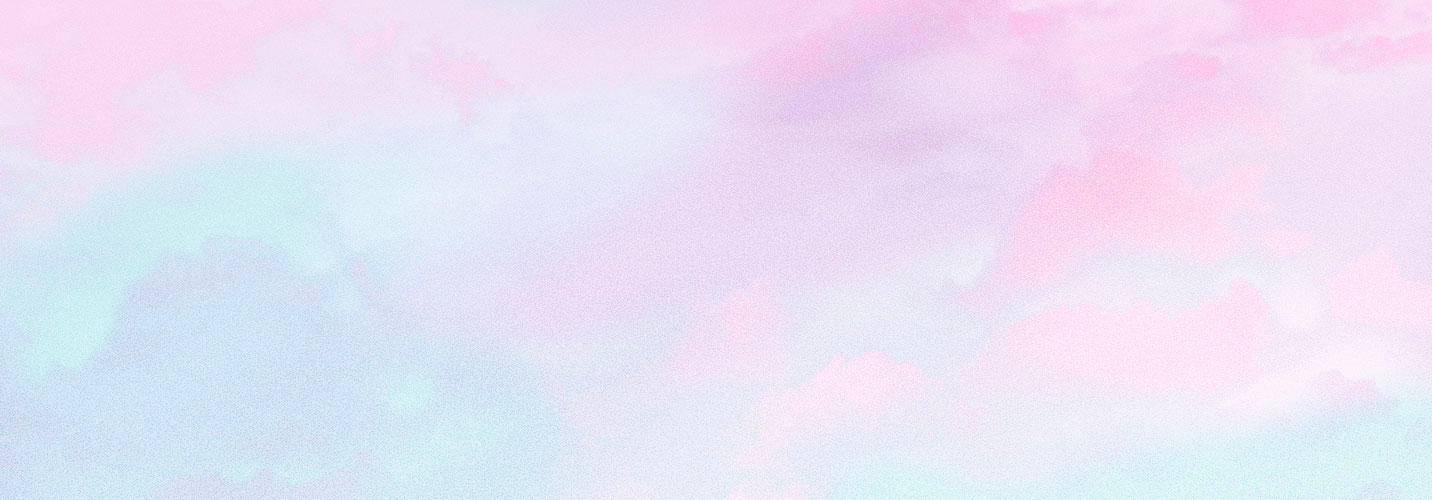
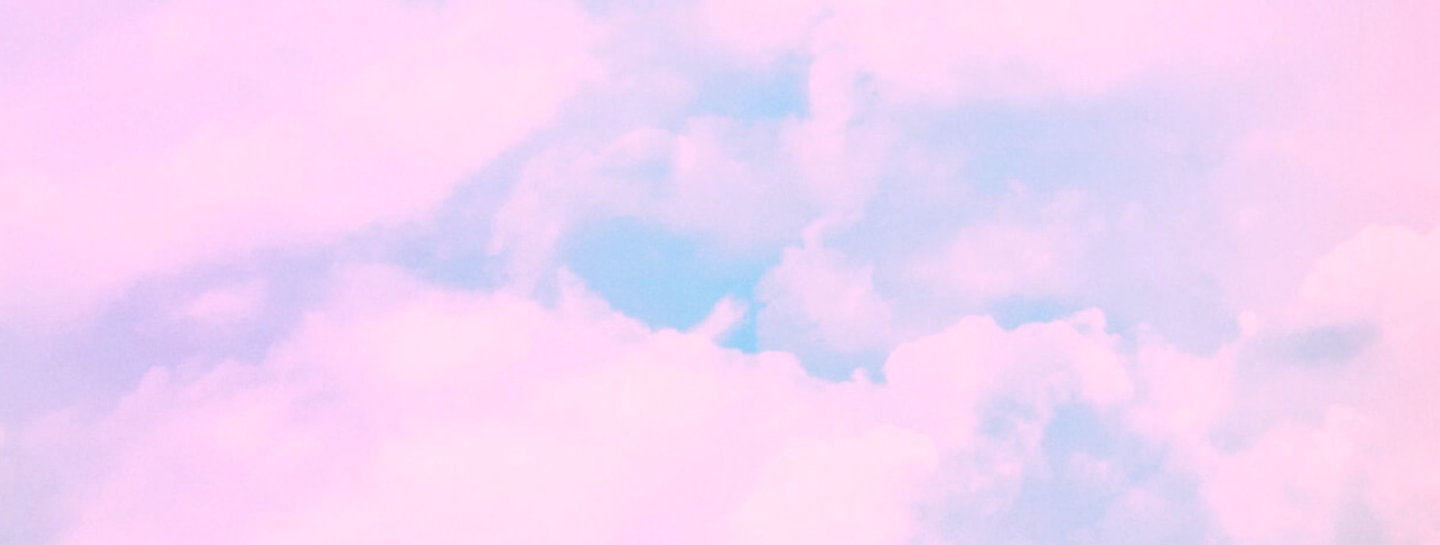
Update layout

diff --git a/src/pages/styles.scss b/src/pages/styles.scss
@@ -14,6 +14,7 @@
 }
 
 body {
+  background: #f4eeff;
   margin: 0;
 }
 
@@ -22,6 +23,7 @@ h2 {
   color: var(--primary-purple);
   font-size: 6.4rem;
   text-align: center;
+  color: var(--primary-accent);
 }
 
 h1 {
@@ -58,10 +60,14 @@ p {
 
 section.invite {
   article {
-    border: 1.2rem solid var(--primary-pink);
+    box-shadow: 0 10px 15px -3px rgba(0, 0, 0, 0.1), 0 4px 6px -2px rgba(0, 0, 0, 0.05);
+
+    background: white;
+    // border: 1.2rem solid var(--primary-purple);
     padding: 4rem;
     max-width: 60rem;
     margin: 8rem auto;
+    margin-bottom: 8rem;
 
     h3 {
       margin-bottom: 2rem;
@@ -86,7 +92,7 @@ section.invite {
 }
 
 section.hero {
-  background: url(../images/sky.png);
+  background-image: url(../images/sky.jpg);
   background-repeat: no-repeat;
   background-size: cover;
   height: 80vh;
@@ -94,6 +100,15 @@ section.hero {
   justify-content: center;
   align-items: center;
   flex-direction: column;
+
+  h2 {
+    margin-bottom: 2rem;
+  }
+
+  p {
+    font-family: "Caveat", cursive;
+    font-size: 3rem;
+  }
 
   a {
     margin-top: 2.4rem;
@@ -152,10 +167,19 @@ section.plain-info {
     width: 50%;
     object-fit: cover;
     height: auto;
+    opacity: 0.9;
+    box-shadow: 0 1px 3px 0 rgba(0, 0, 0, 0.1), 0 1px 2px 0 rgba(0, 0, 0, 0.06) !important;
+    border: 1rem solid white;
+    border-radius: 8px;
+    border-right: 6rem solid white;
+    transform: rotate(2deg);
   }
 
   &:nth-child(even) {
     flex-direction: row-reverse;
+    img {
+      transform: rotate(-2deg);
+    }
   }
 }
 
@@ -165,7 +189,8 @@ section.plain-info {
   }
 
   section.hero {
-    height: 100vh;
+    background-repeat: no-repeat;
+    background-image: url(../images/sky-mobile.png);
   }
 
   section.plain-info {
@@ -187,7 +212,7 @@ section.plain-info {
 
     img {
       margin-top: 4rem;
-      width: 100%;
+      width: calc(100% - 8rem);
       object-fit: cover;
       height: auto;
     }
@@ -199,7 +224,6 @@ section.plain-info {
 
   section.invite {
     article {
-      border: 1.2rem solid var(--primary-pink);
       padding: 4rem;
       max-width: unset;
       margin: 4rem;

diff --git a/src/pages/index.js b/src/pages/index.js
@@ -6,7 +6,7 @@ import Layout from "../components/layout"
 import Image from "../components/image"
 import SEO from "../components/seo"
 import familyImage from "../images/family.png"
-import coupleImage from "../images/couple.jpg"
+import coupleImage from "../images/couple.png"
 
 const IndexPage = () => (
   <Layout>
